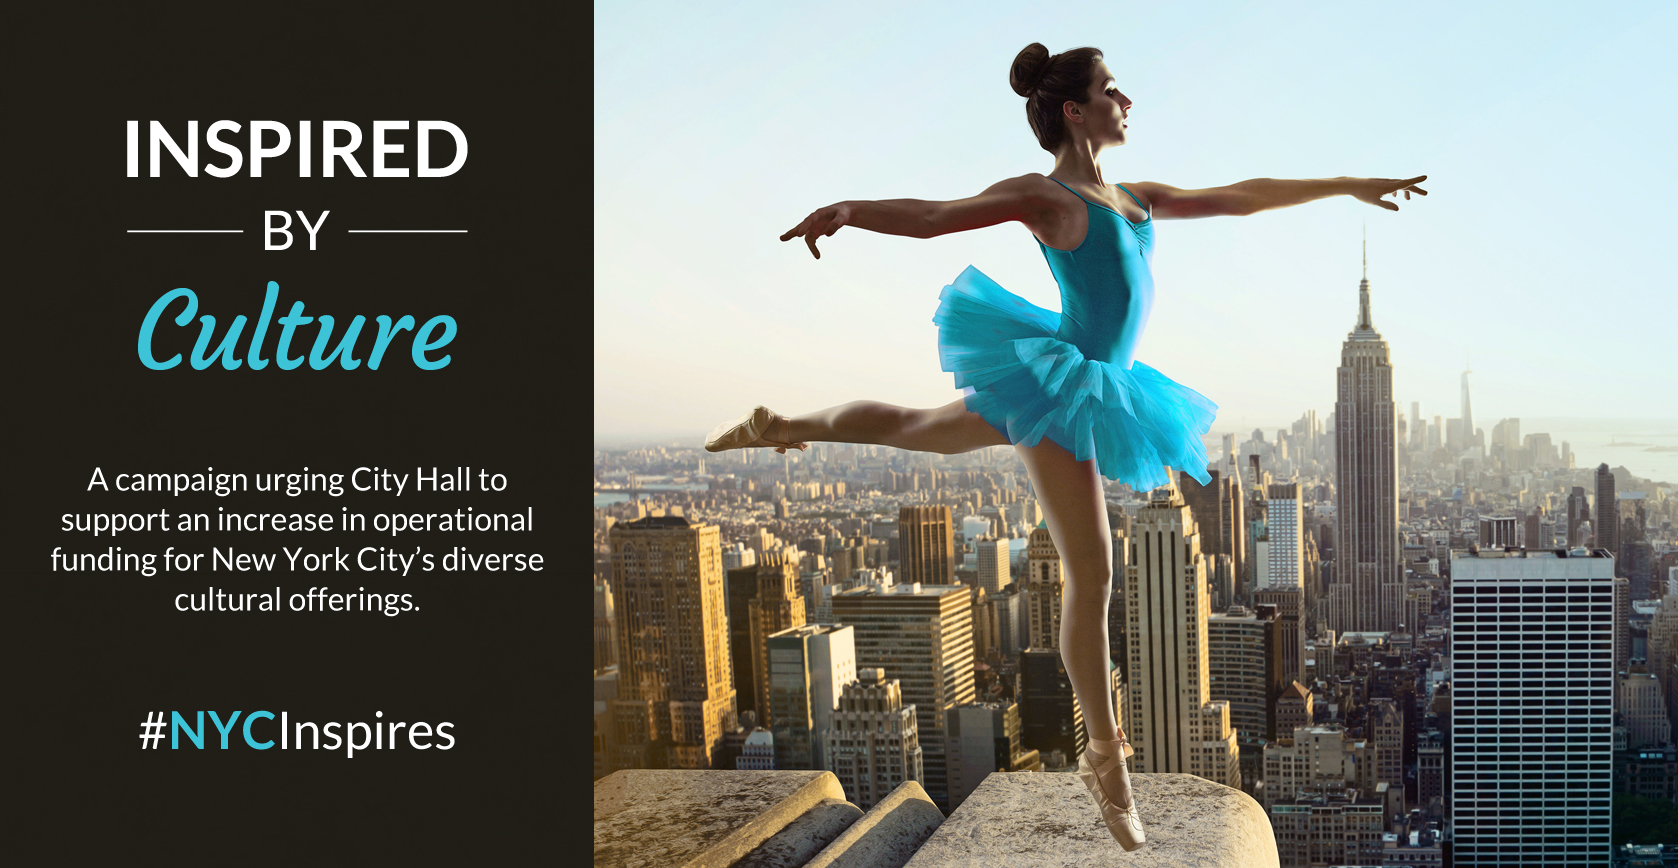
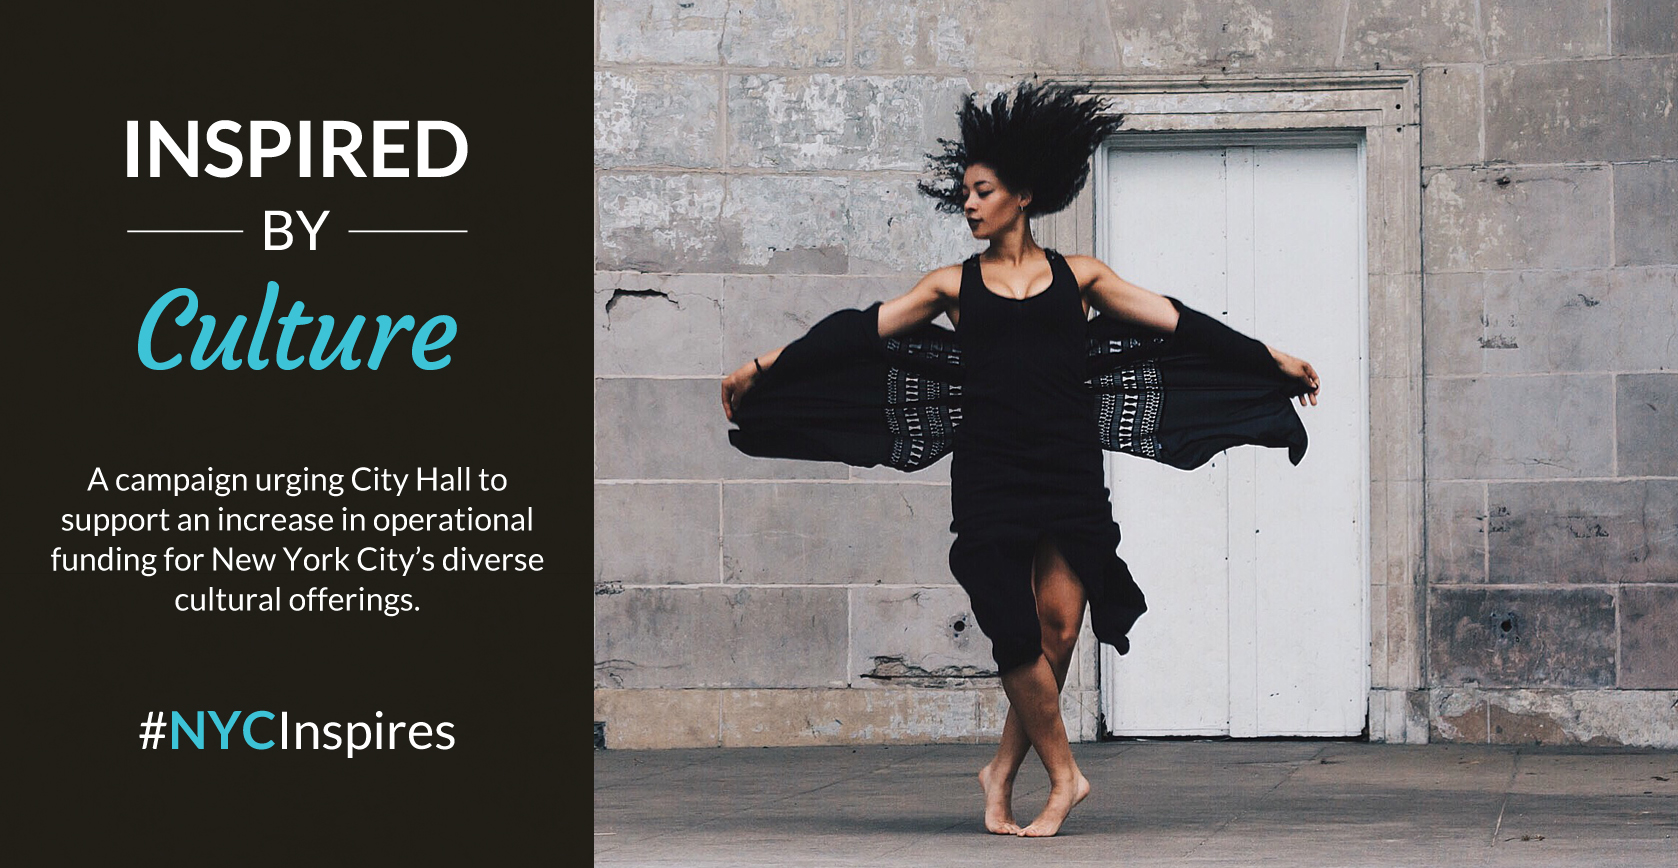
no message

diff --git a/index.html b/index.html
@@ -227,16 +227,16 @@
 
     <div id="SocialImageBlocks">
         <div class="SocialKitBlocks">
-            <a href="Downloads/WCS-NYC-Inspired-By-Facebook-Share-2018.jpg" target="_blank"><img src="img/WCS-NYC-Inspired-By-Facebook-Share-2018.jpg" ></a>
-            <a href="Downloads/WCS-NYC-Inspired-By-Facebook-Share-2018.jpg">Facebook<span>(489KB .jpg)</span></a>
+            <a href="Downloads/Inspired-By-Facebook-Share-2018.jpg" target="_blank"><img src="img/Inspired-By-Facebook-Share-2018.jpg" ></a>
+            <a href="Downloads/Inspired-By-Facebook-Share-2018.jpg">Facebook<span>(489KB .jpg)</span></a>
         </div>
         <div class="SocialKitBlocks">
-            <a href="Downloads/WCS-NYC-Inspired-By-Twitter-Share-2018.jpg" target="_blank"><img src="img/WCS-NYC-Inspired-By-Twitter-Share-2018.jpg"></<a>
-            <a href="Downloads/WCS-NYC-Inspired-By-Twitter-Share-2018.jpg" target="_blank">Twitter <span>(318KB .jpg)</span></a>
+            <a href="Downloads/Inspired-By-Twitter-Share-2018.jpg" target="_blank"><img src="img/Inspired-By-Twitter-Share-2018.jpg"></<a>
+            <a href="Downloads/Inspired-By-Twitter-Share-2018.jpg" target="_blank">Twitter <span>(318KB .jpg)</span></a>
         </div>
         <div class="SocialKitBlocks">
-            <a href="Downloads/WCS-NYC-Inspired-By-Instagram-Share-2018.jpg" target="_blank"><img id="SocialInstagram" src="img/WCS-NYC-Inspired-By-Instagram-Share-2018.jpg" ></a>
-            <a href="Downloads/WCS-NYC-Inspired-By-Instagram-Share-2018.jpg" target="_blank">Instagram <span>(753KB .jpg)</span></a>
+            <a href="Downloads/Inspired-By-Instagram-Share-2018.jpg" target="_blank"><img id="SocialInstagram" src="img/Inspired-By-Instagram-Share-2018.jpg" ></a>
+            <a href="Downloads/Inspired-By-Instagram-Share-2018.jpg" target="_blank">Instagram <span>(753KB .jpg)</span></a>
         </div>
     </div>
 

diff --git a/partners.html b/partners.html
@@ -28,20 +28,18 @@
 
 <nav>
 <ul>
-    <li><a href="http://www.nycinspires.org/#TakeAction">Take Action</a></li>
+    <li><a href="http://www.nycinspires.org/">Home</a></li>
+    <li><a href="http://www.nycinspires.org/#Update">Update</a></li>
     <li><a href="http://www.nycinspires.org/#IAmNYCCulture">I Am NYC Culture</a></li>
-   <!--  <li><a href="http://www.nycinspires.org/#NYCCreates">NYC Creates</a></li> -->
-    <!-- <li><a href="http://www.nycinspires.org/#Petition">Petition</a></li> -->
-    <li><a href="http://www.nycinspires.org/#ToolKit">Toolkit</a></li>
     <li><a href="http://www.nycinspires.org/#MediaPartners">Media/Partners</a></li>
-    <li><a href="http://www.nycinspires.org/#SocialMedia">Social Media</a></li>
-    <li><a href="http://www.nycinspires.org/#Movement">Movement</a></li>
+    <li><a href="http://www.nycinspires.org/#SocialMedia">Social Media</a></li> 
+    <li><a href="http://www.nycinspires.org/#Movement">Movement</a></li>         
 </ul>
 </nav>
 </header>
 </div>
-<div id="PartnersHeader">
-<h1>NYCInspires</h1>
+<div id="InspireImage">
+<a href="http://www.nycinspires.org/"><h1>NYCInspires</h1></a>
 </div>
 
 
@@ -287,7 +285,7 @@
 </div>
 
 <div id="homeLink">
-  <h2><a href="index.html">Home</a></h2>
+  <h3><a href="index.html">Home</a></h3>
 </div>
 <script>
   (function(i,s,o,g,r,a,m){i['GoogleAnalyticsObject']=r;i[r]=i[r]||function(){

diff --git a/css/main.css b/css/main.css
@@ -558,7 +558,7 @@ h2 {
     padding-bottom: 2%;
 }
 
-#homeLink h2 {
+#homeLink h3 {
     margin-top: 0;
     width: 100%;
     text-align: center;
